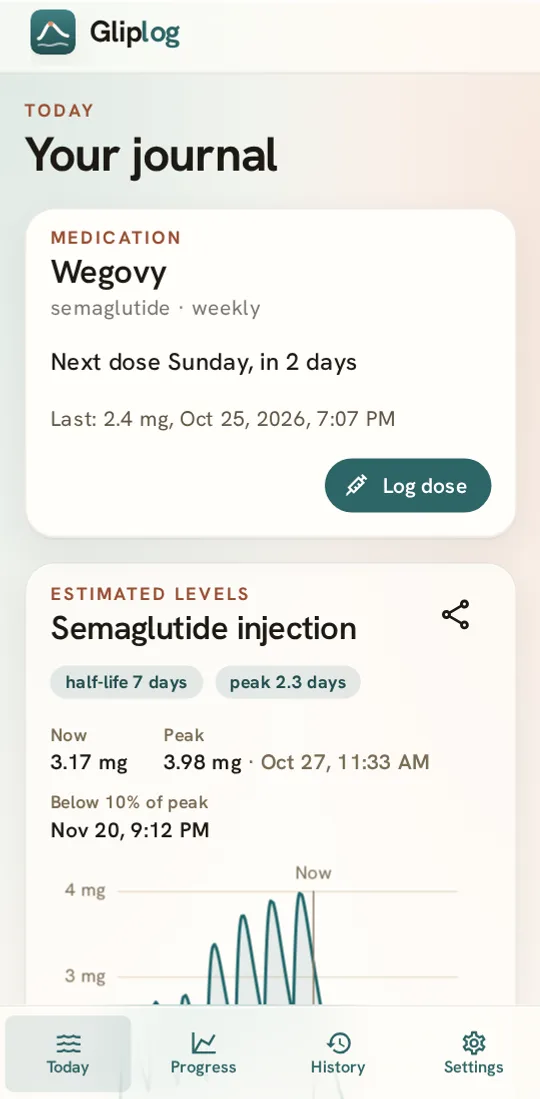
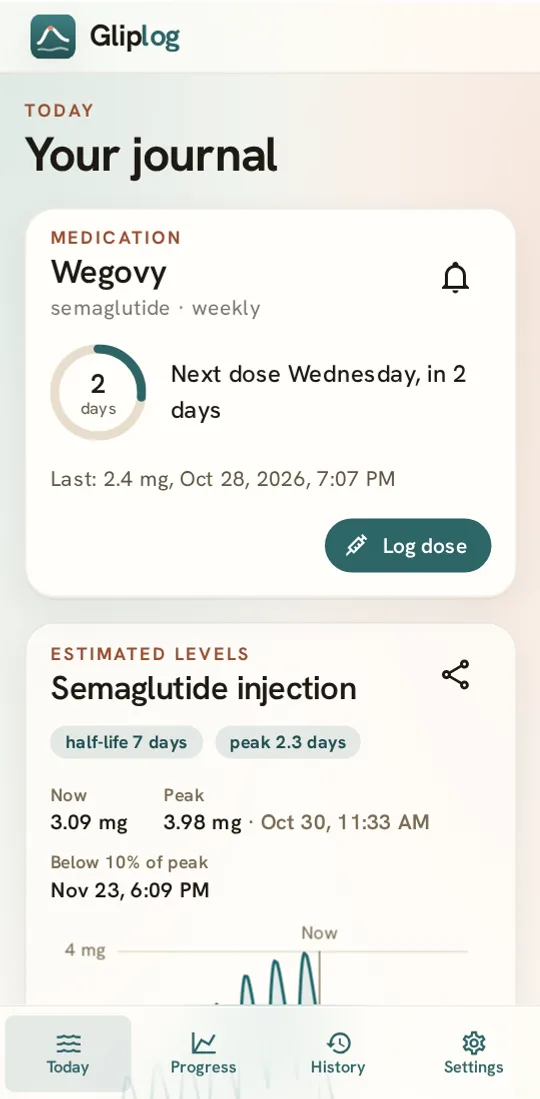
update screenshot with new countdown circle

diff --git a/site/index.html b/site/index.html
@@ -87,7 +87,7 @@
                 src="assets/screens/today-light.webp"
                 width="540"
                 height="1099"
-                alt="Gliplog's Today screen: when the next dose is due and an estimate of the medicine in the body over recent doses"
+                alt="Gliplog's Today screen: a countdown ring to the next dose, when it is due, and an estimate of the medicine in the body over recent doses"
               />
             </picture>
             <picture class="phone">
